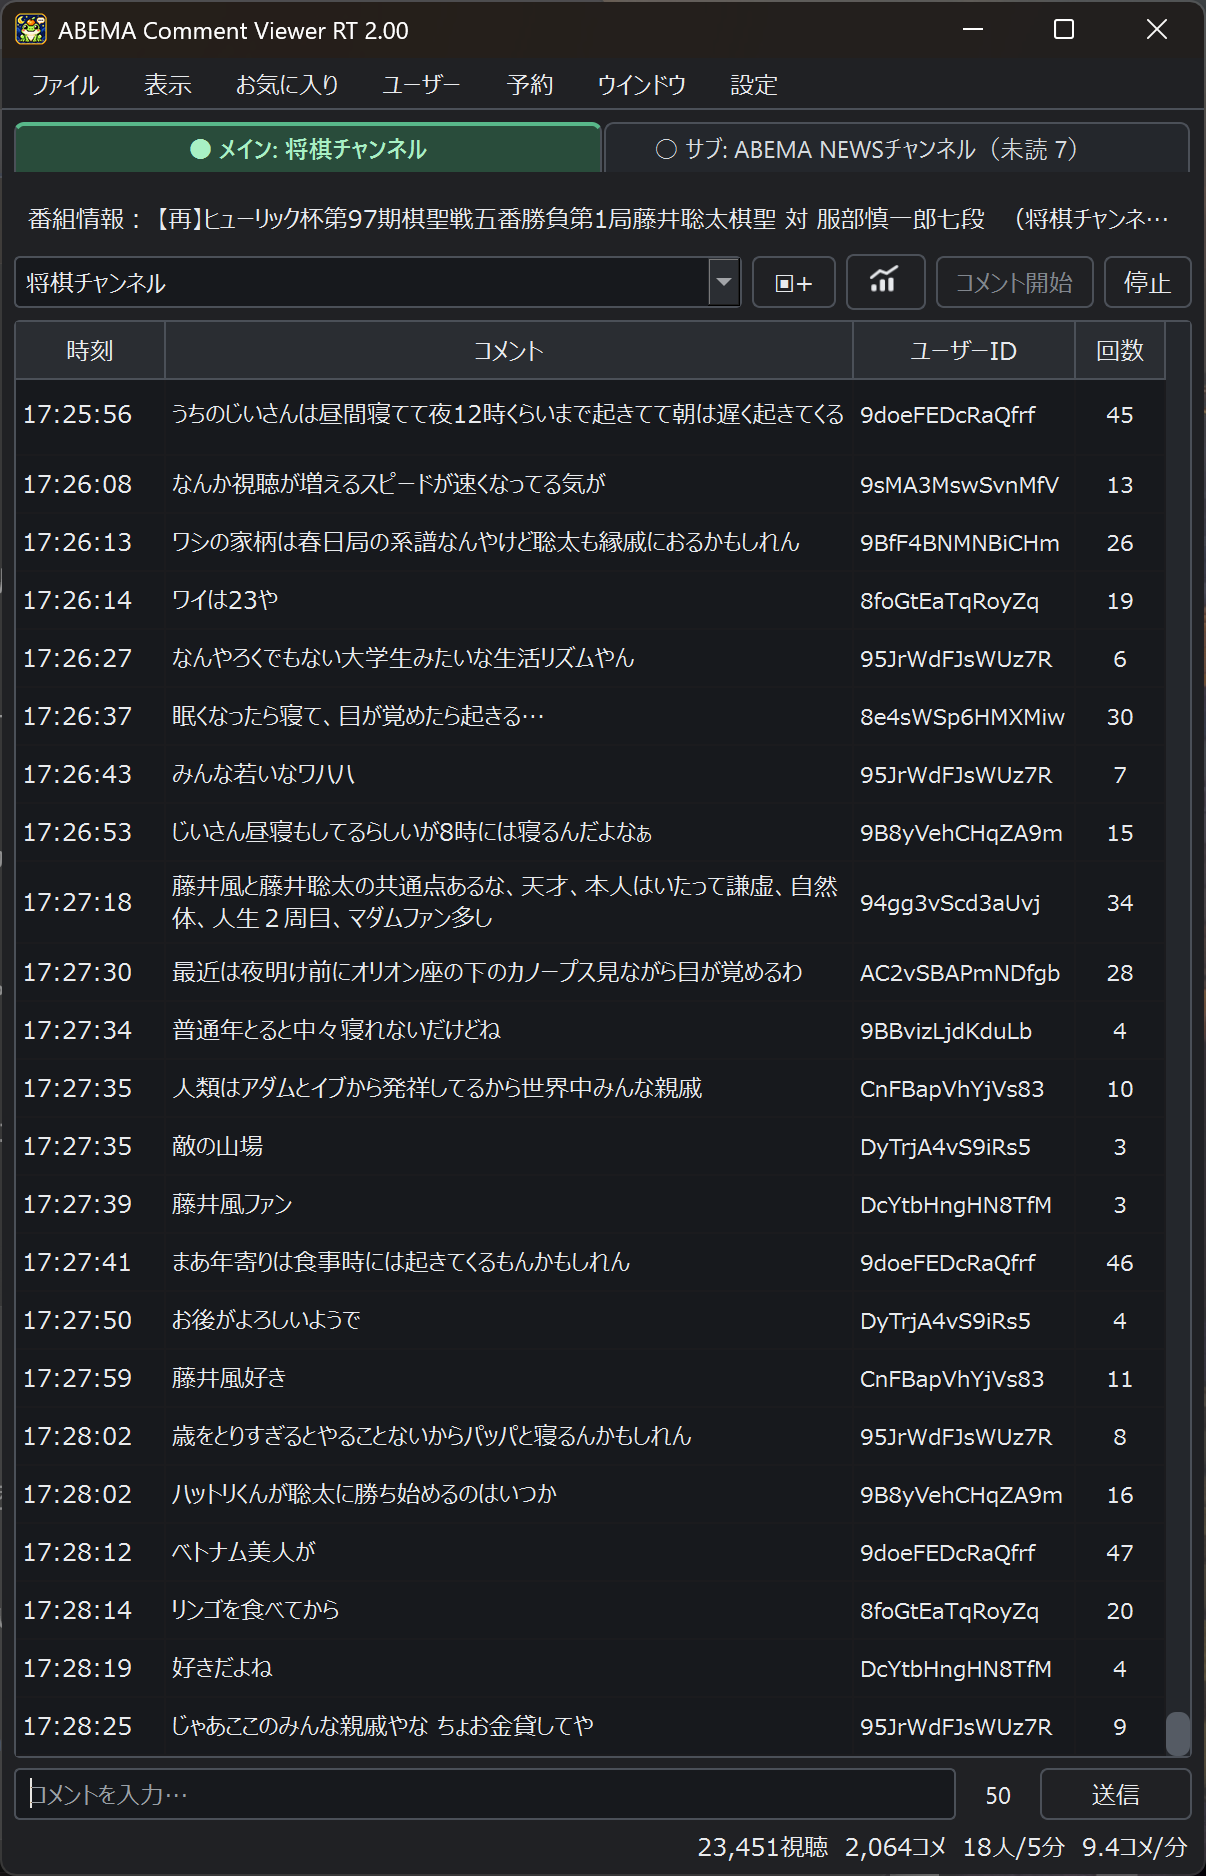
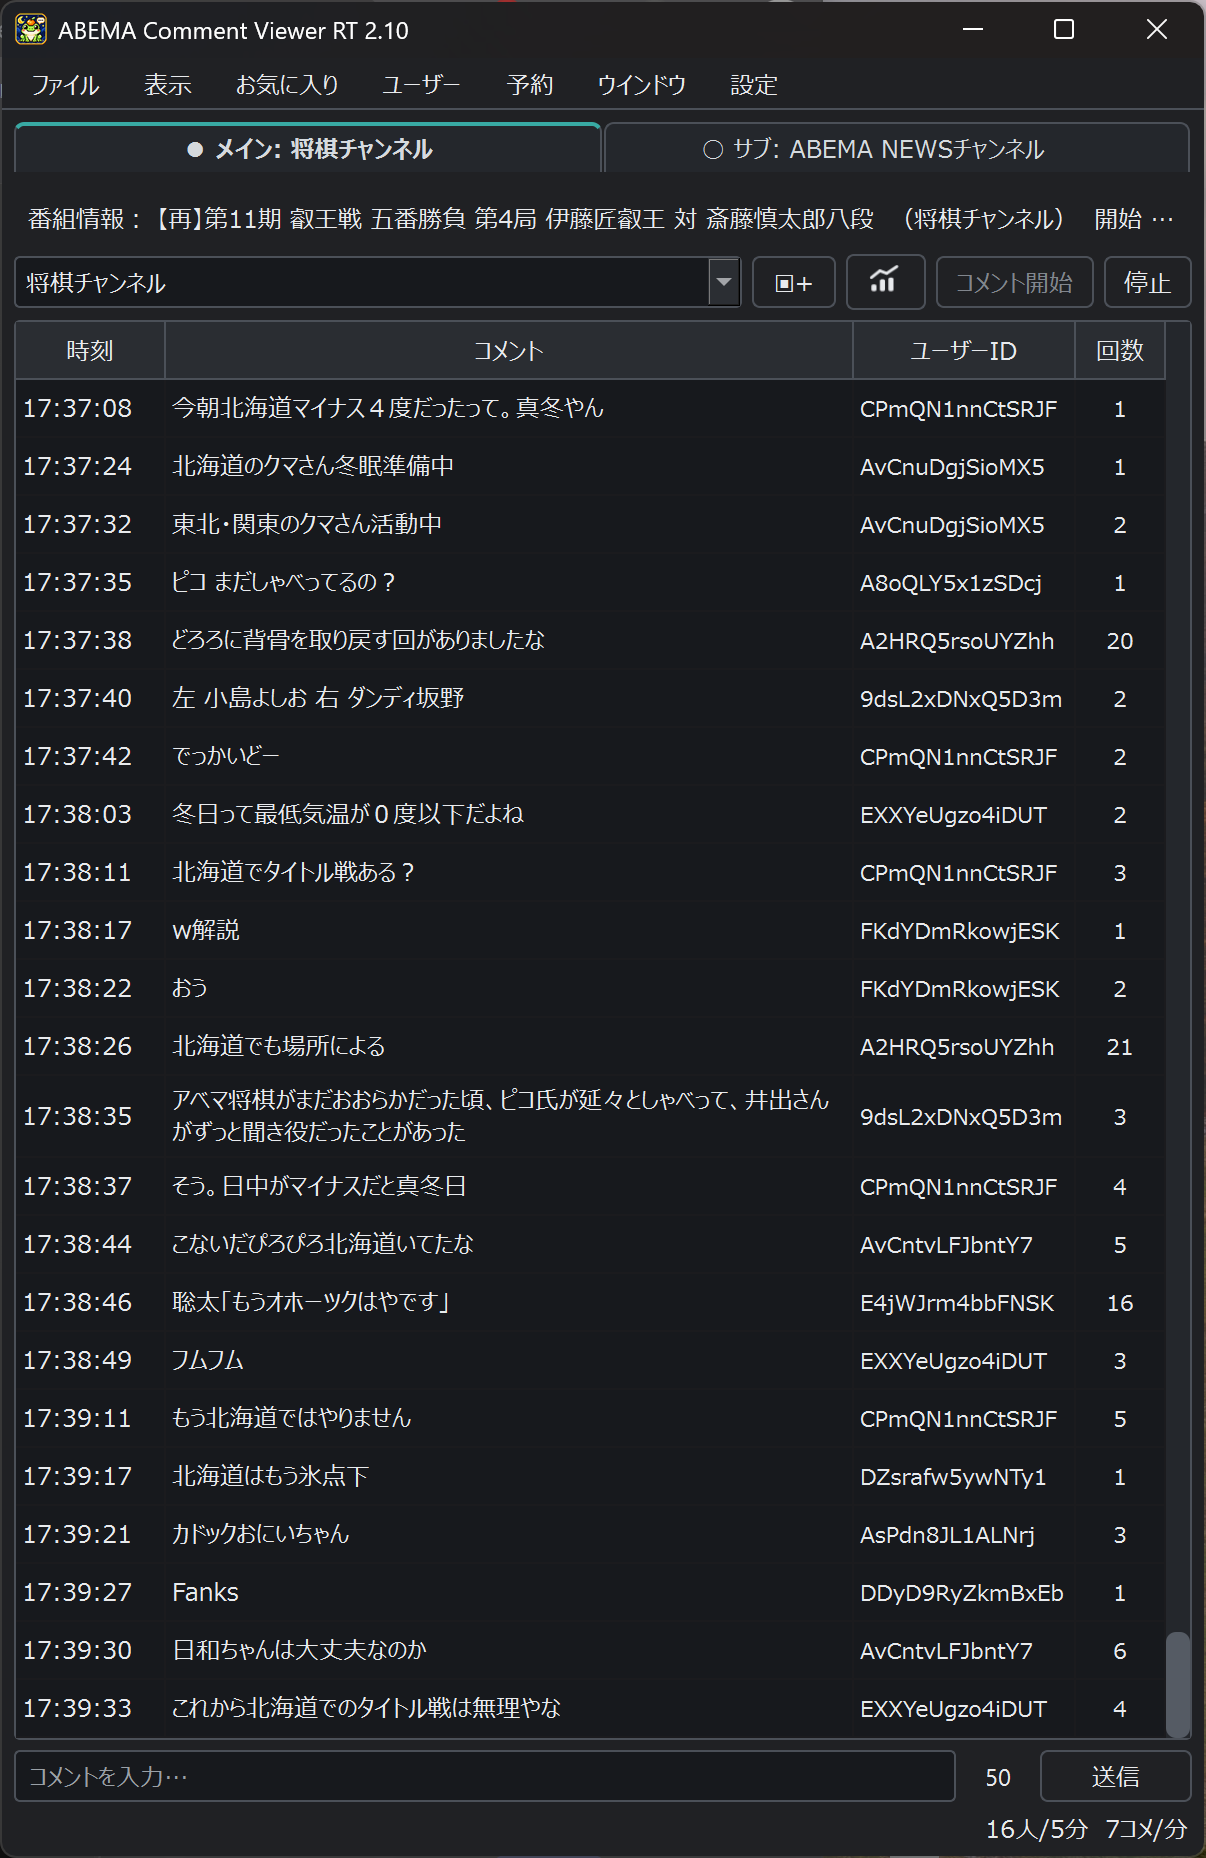
Publish Windows 2.10

diff --git a/index.html b/index.html
@@ -212,7 +212,7 @@
       .screenshot-link img { height: min(70vh, 460px); }
     }
   </style>
-  <!-- GitHub Pages refresh: Windows v2.00 -->
+  <!-- GitHub Pages refresh: Windows v2.10 -->
 </head>
 
 <body id="top">
@@ -238,7 +238,7 @@
         ABEMAのリアルタイムコメントを、<br>
         パソコンでもスマートフォンでも快適に閲覧・投稿🐸
       </p>
-      <span class="badge">Windows版 2.00</span>
+      <span class="badge">Windows版 2.10</span>
       <span class="badge">Android版 1.80</span>
       <div>
         <a class="button" href="#download">ダウンロード情報を見る</a>
@@ -326,17 +326,17 @@
       <p class="muted small">画像をクリック・タップすると、元のサイズで開きます。</p>
       <div class="panel screenshot-group">
         <h3>Windows版</h3>
-        <p class="muted small">掲載画像は2.00のものです。</p>
+        <p class="muted small">掲載画像は2.10のものです。</p>
         <div class="screenshot-pair">
           <figure>
             <a class="screenshot-link" href="windows-comments.png" target="_blank" rel="noopener" aria-label="Windows版のコメント表示画面を拡大（新しいタブ）">
-              <img src="windows-comments.png" alt="Windows版 2.00：タブ式マルチビューのリアルタイムコメント一覧とコメント入力欄" loading="lazy" decoding="async">
+              <img src="windows-comments.png" alt="Windows版 2.10：タブ色設定を反映したマルチビューのリアルタイムコメント一覧とコメント入力欄" loading="lazy" decoding="async">
             </a>
             <figcaption>コメント表示</figcaption>
           </figure>
           <figure>
             <a class="screenshot-link" href="windows-channels.png" target="_blank" rel="noopener" aria-label="Windows版のチャンネル選択画面を拡大（新しいタブ）">
-              <img src="windows-channels.png" alt="Windows版 2.00：チャンネル選択メニュー" loading="lazy" decoding="async">
+              <img src="windows-channels.png" alt="Windows版 2.10：マルチビュー表示中のチャンネル選択メニュー" loading="lazy" decoding="async">
             </a>
             <figcaption>チャンネル選択</figcaption>
           </figure>
@@ -367,18 +367,18 @@
       <div class="grid">
         <article class="panel">
           <p class="platform">WINDOWS</p>
-          <h3>Windows版 2.00</h3>
+          <h3>Windows版 2.10</h3>
           <p class="muted">
-            更新日：2026年10月15日<br>
+            更新日：2026年10月18日<br>
             対応環境：Windows 10 / 11<br>
             配布形式：Portable ZIP<br>
             ファイル名：<br>
-            ABEMA_Comment_Viewer_RT_2.00_Windows_x64.zip<br>
-            ファイルサイズ：50.21 MiB（52,653,359バイト）
+            ABEMA_Comment_Viewer_RT_2.10_Windows_x64.zip<br>
+            ファイルサイズ：50.29 MiB（52,731,858バイト）
           </p>
 
           <p class="download-action">
-            <a class="button" href="https://github.com/rikyatan/abema-comment-viewer-rt/releases/download/windows-v2.00/ABEMA_Comment_Viewer_RT_2.00_Windows_x64.zip">Windows版 2.00をダウンロード（ZIP）</a>
+            <a class="button" href="https://github.com/rikyatan/abema-comment-viewer-rt/releases/download/windows-v2.10/ABEMA_Comment_Viewer_RT_2.10_Windows_x64.zip">Windows版 2.10をダウンロード（ZIP）</a>
           </p>
 
           <h4>導入方法</h4>
@@ -402,15 +402,15 @@
 
           <h4>配布ZIPの検査結果</h4>
           <p>
-            <a href="https://www.virustotal.com/gui/file/4acdb5279e7e21e91b7aeab4acdd9131b2b8494504e366e12a510bfff4938d87?nocache=1">VirusTotalでZIPの検査結果を確認</a>
+            <a href="https://www.virustotal.com/gui/file/131f5c7fd1398b8355bb6cee5590143ac8ce11d0548bd679675698b4adcc4179?nocache=1">VirusTotalでZIPの検査結果を確認</a>
           </p>
           <p class="muted small">
-            検査対象は、Windows版2.00の配布ZIPファイルです。
+            検査対象は、Windows版2.10の配布ZIPファイルです。
           </p>
 
           <h4>配布ZIPのSHA-256</h4>
           <p class="muted small">対象：ABEMA_Comment_Viewer_RT_2.00_Windows_x64.zip</p>
-          <code class="hash">4acdb5279e7e21e91b7aeab4acdd9131b2b8494504e366e12a510bfff4938d87</code>
+          <code class="hash">131f5c7fd1398b8355bb6cee5590143ac8ce11d0548bd679675698b4adcc4179</code>
         </article>
 
         <article class="panel" id="android-download">
@@ -470,6 +470,11 @@
         <div class="panel">
           <h3>Windows版</h3>
           <ul class="history">
+            <li>
+              <time datetime="2026-10-18">2026/10/18</time>
+              <strong>2.10</strong>
+              <p>細かい不具合を修正。マルチビューのタブ色設定を追加。</p>
+            </li>
             <li>
               <time datetime="2026-10-15">2026/10/15</time>
               <strong>2.00</strong>

diff --git a/history.html b/history.html
@@ -212,7 +212,7 @@
       .screenshot-link img { height: min(70vh, 460px); }
     }
   </style>
-  <!-- GitHub Pages refresh: Windows v2.00 -->
+  <!-- GitHub Pages refresh: Windows v2.10 -->
 </head>
 
 <body id="top">
@@ -237,6 +237,11 @@
         <div class="panel">
           <h3>Windows版</h3>
           <ul class="history">
+            <li>
+              <time datetime="2026-10-18">2026/10/18</time>
+              <strong>2.10</strong>
+              <p>細かい不具合を修正。マルチビューのタブ色設定を追加。</p>
+            </li>
             <li>
               <time datetime="2026-10-15">2026/10/15</time>
               <strong>2.00</strong>

diff --git a/guide-windows.html b/guide-windows.html
@@ -71,7 +71,7 @@
       <p class="eyebrow">WINDOWS VERSION</p>
       <h1>使い方・主な機能</h1>
       <p class="lead">ABEMA Comment Viewer RTを初めて使う方向けの案内ページです。</p>
-      <span class="badge">Windows版 2.00対応</span>
+      <span class="badge">Windows版 2.10対応</span>
     </div>
 
     <section id="start" aria-labelledby="start-title">
